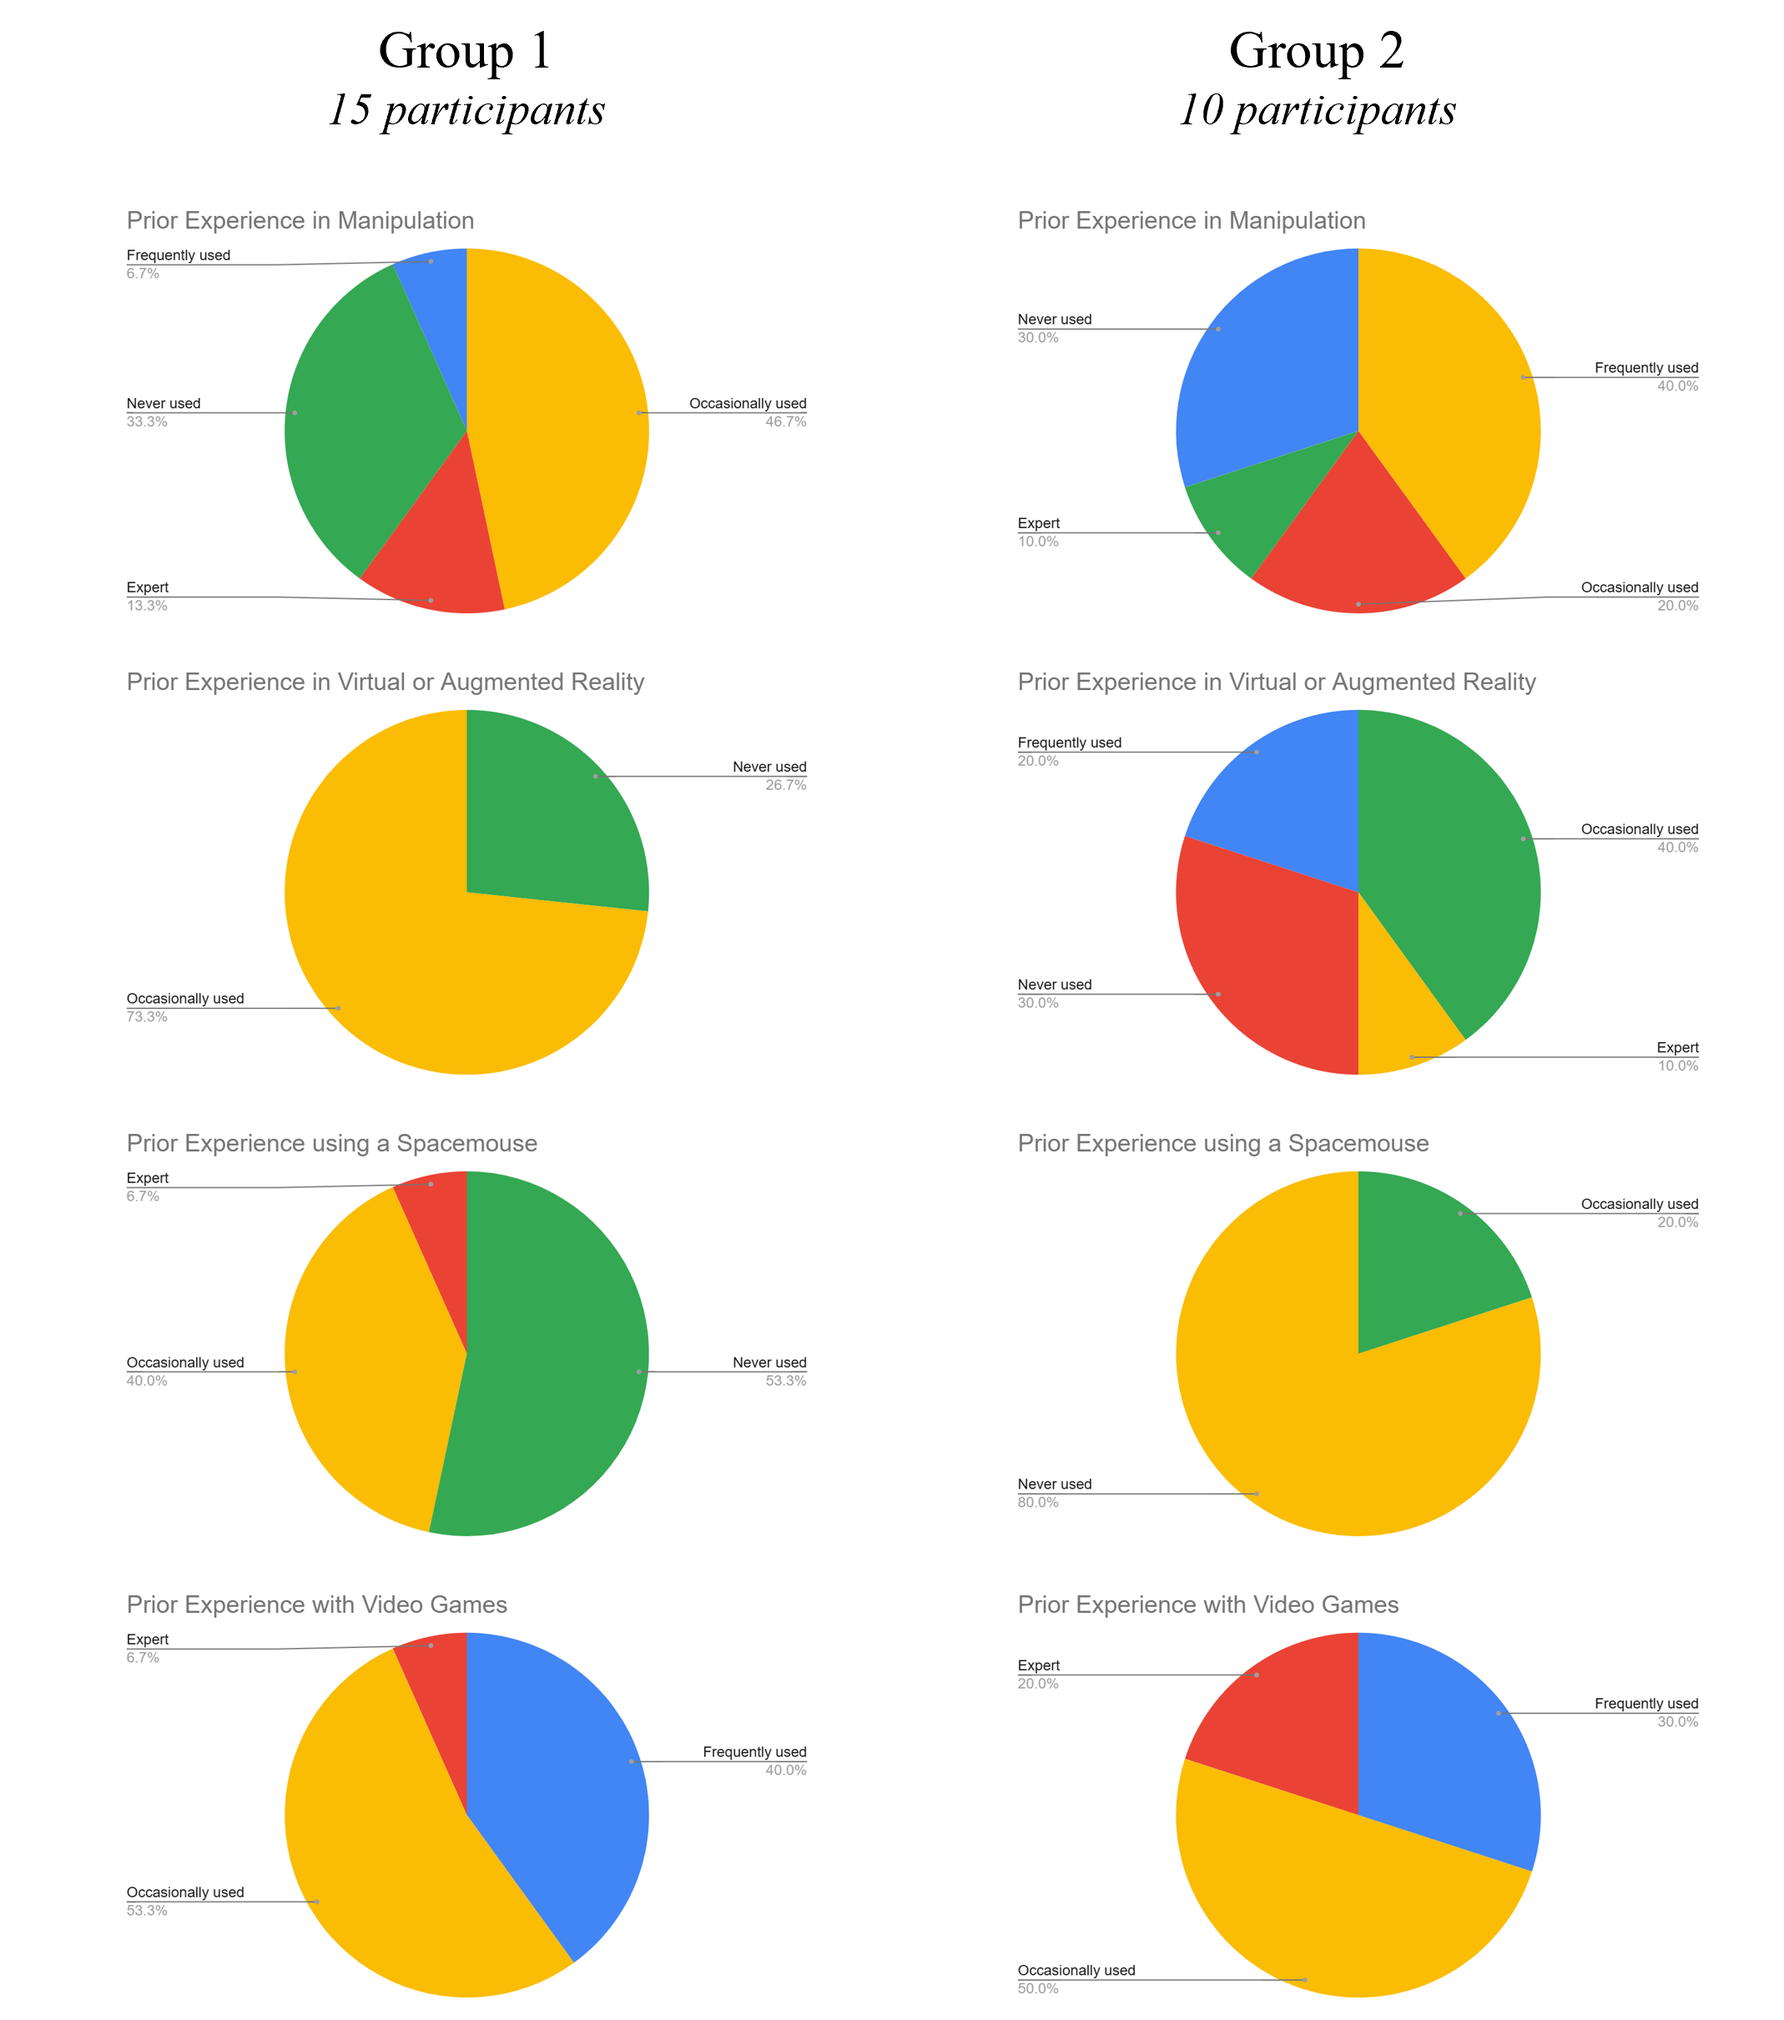
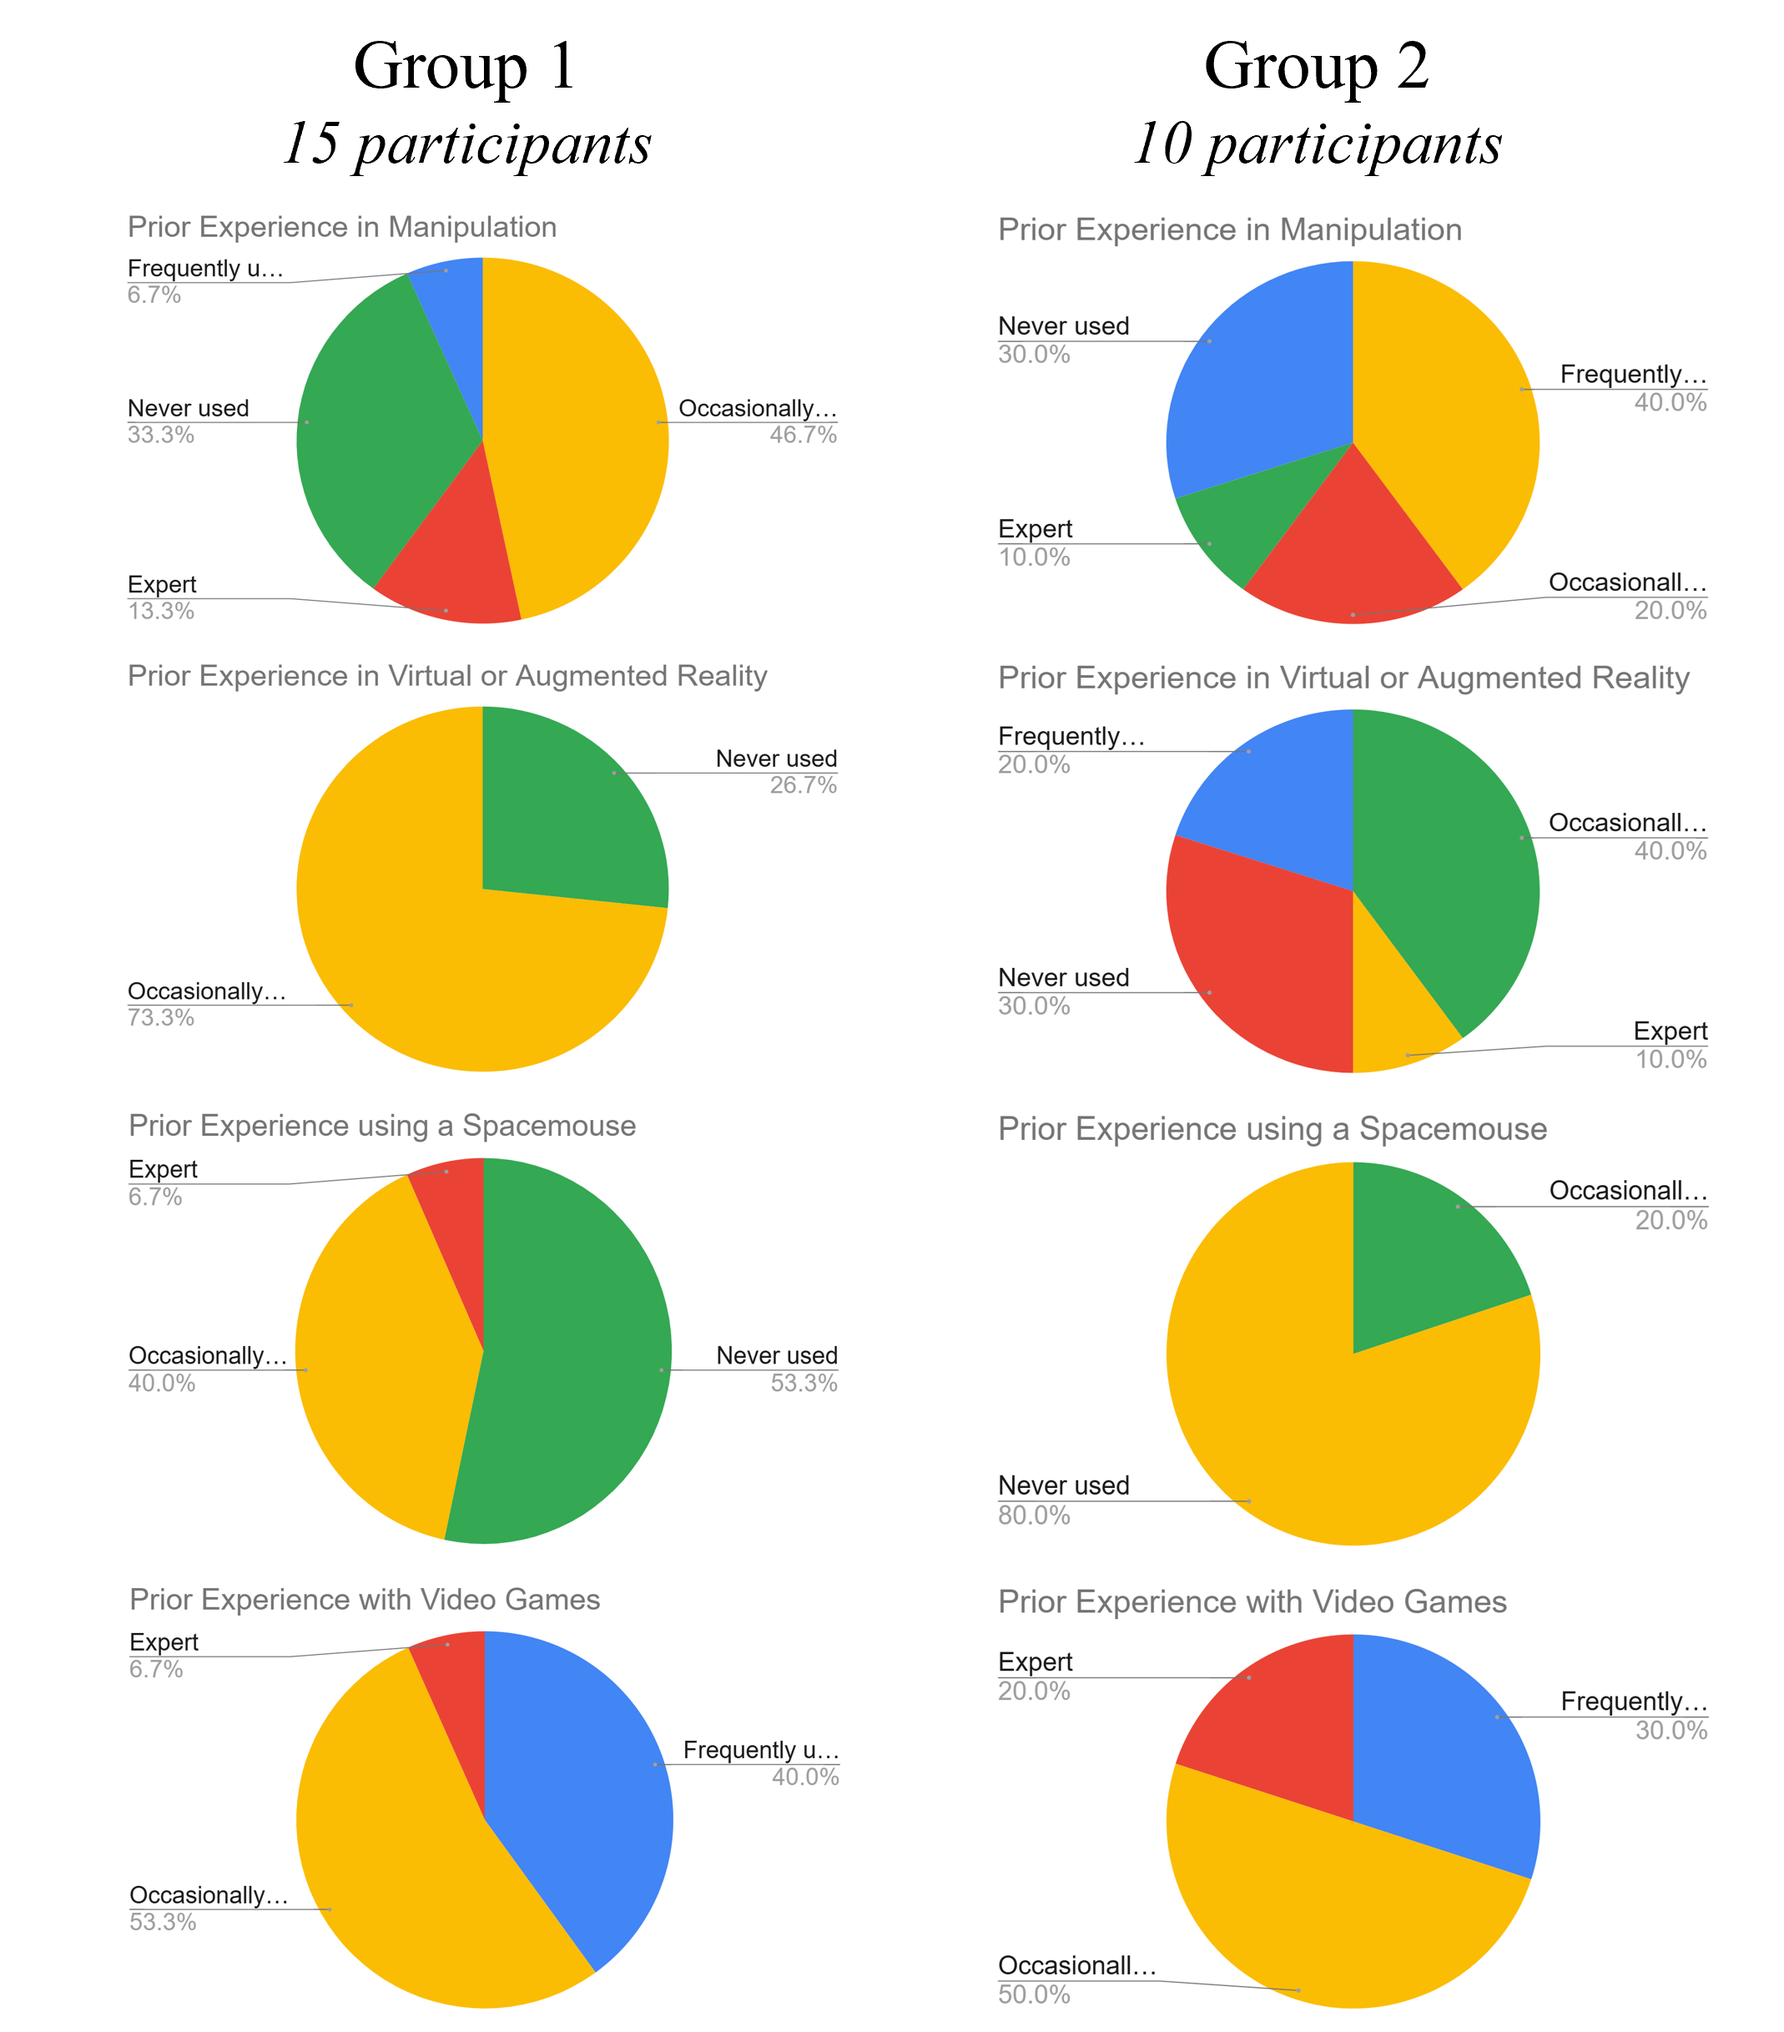
narrative changes

diff --git a/index.html b/index.html
@@ -141,21 +141,25 @@
       <div class="column is-full-width">
         <div class="video-row">
           <video controls autoplay muted loop>
+            <source src="./static/videos/mixedreality_compressed.mp4" type="video/mp4">
+          </video>
+
+          <video controls autoplay muted loop>
             <source src="./static/videos/kinesthetic_compressed.mp4" type="video/mp4">
           </video>
 
           <video controls autoplay muted loop>
             <source src="./static/videos/spacemouse_compressed.mp4" type="video/mp4">
           </video>
-
-          <video controls autoplay muted loop>
-            <source src="./static/videos/mixedreality_compressed.mp4" type="video/mp4">
-          </video>
+          
         </div>
-        <div class ="column has-text-justified">
-          <p class="is-bold">Videos demonstrating the three robot control approaches:
-            Kinesthetic Teaching, SpaceMouse Teleoperation, and a Mixed Reality Teleoperation Interface.  </p>
+        <div class="columns is-centered has-text-centered">
+          <div class ="column has-text-justified">
+            <p class="is-bold">Videos demonstrating the two teleoperation approaches:
+            SpaceMouse Teleoperation and a Mixed Reality Teleoperation Interface, and the non-teleoperation approach: Kinesthetic Teaching.  </p>
+          </div>
         </div>
+        
 </section>
 
 <section class="section">
@@ -166,18 +170,19 @@
         <h2 class="title is-3">Abstract</h2>
         <div class="content has-text-justified">
           <p>
-            Teleoperation interfaces are increasingly important for enabling intuitive and effective human-robot interaction, yet their performance
-            relative to direct manipulation methods remains underexplored. In this study, we compared two teleoperation approaches—SpaceMouse
-            Teleoperation and a Mixed Reality interface—to a widely used non-teleoperation method, Kinesthetic Teaching. All three approaches
-            were evaluated in a comprehensive user study involving two robotic platforms and six complex manipulation tasks. Quantitative
-            results show that Kinesthetic Teaching outperforms both teleoperation methods, yielding faster task completion times and higher
-            success rates for both novice and expert users. The SpaceMouse and MR interfaces performed comparably, with significant differences
-            in task completion observed for only two tasks, and success rates declining as task complexity increased. Qualitative analysis reflected
-            these trends, highlighting differences in Physical Demand and identifying interface attributes that influence users’ ability to perform,
-            learn, and understand. This study quantifies the limitations of current teleoperation methods and incorporates subjective feedback
-            from 25 participants. The results highlight the critical need to design and rigorously evaluate teleoperation systems for non-expert
-            users, particularly in contexts where autonomous robots are deployed in personal or everyday environments, to ensure usability,
-            efficiency, and accessibility.
+            Teleoperation interfaces are essential tools for enabling human control of robotic systems. Although a wide range of interfaces has
+            been developed, a persistent gap remains between the level of performance humans can achieve through these interfaces and the
+            capabilities afforded by direct human-guided robot control. This gap is further exacerbated when users are inexperienced or unfamiliar
+            with the robotic platform or control interface. In this work, we aim to better characterize this performance gap for non-expert users by
+            comparing two teleoperation approaches—SpaceMouse teleoperation and a Mixed Reality (MR) interface—against kinesthetic teaching
+            as a non-teleoperation baseline. All three approaches were evaluated in a comprehensive user study involving two robotic platforms
+            and six complex manipulation tasks. Quantitative results show that the SpaceMouse and MR interfaces performed comparably, with
+            significant differences in task completion observed for only two tasks, and success rates declining as task complexity increased.
+            Qualitative analysis reflected these trends, highlighting differences in Physical Demand and identifying interface attributes that
+            influence users’ ability to perform, learn, and understand. This study quantifies the limitations of current teleoperation methods
+            and incorporates subjective feedback from 25 participants. The results highlight the critical need to design and rigorously evaluate
+            teleoperation systems for non-expert users, particularly in contexts where autonomous robots are deployed in personal or everyday
+            environments, to ensure usability, efficiency, and accessibility.
           </p>
         </div>
       </div>
@@ -206,8 +211,8 @@
         <h3 class="title is-3">Experimental Design</h3>
         <div class="content has-text-justified">
           <p>
-            We conducted a user study to compare three robot control interfaces:
-              Kinesthetic Teaching, SpaceMouse Teleoperation, and a Mixed Reality Teleoperation Interface.
+            We conducted a user study to compare two teleoperation interfaces:
+              SpaceMouse Teleoperation and a Mixed Reality Teleoperation Interface, and the non-teleoperation approach (for broader robot control contextualization): Kinesthetic Teaching.
               Participants were tasked with completing a series of manipulation tasks
               using each interface, and their performance, workload, and preferences were evaluated.
               We recorded task completion times, success rates, and subjective feedback through questionnaires.
@@ -217,16 +222,19 @@
         <h3 class="title is-4">Hypotheses</h3>
         <div class="content has-text-justified">
           <p>
-            <strong>H1:</strong> Kinesthetic Teaching will result in lower task completion times
-            and lower perceived workload compared to SpaceMouse Teleoperation and Mixed Reality Teleoperation.
+            <strong> Hypothesis 1 – Helping Users Do (SpaceMouse):</strong> The SpaceMouse’s minimal and intuitive design will allow users to control the robot’s end-effector seamlessly,
+             enabling them to execute both large and precise movements with minimal effort. 
+             However, unintuitive input-to-motion mappings may reduce effectiveness in matching user commands to robot movements..
           </p>
           <p>
-            <strong>H2:</strong> Spacemouse Teleoperation will result in the lowest physical workload but comparable task completion times
-            and perceived workload to Mixed Reality Teleoperation.
+            <strong>Hypothesis 2 – Helping Users Understand (Mixed Reality):</strong> Visualizing the end-effector via a mixed reality digital twin will improve users’ ability to anticipate robot movements in response to their inputs, 
+            clarifying the relationship between control actions and robot motion and potentially enhancing task performance. 
+            However, prior experience with AR/VR/MR may influence usability and limit effectiveness.
           </p>
           <p>
-            <strong>H3:</strong> Mixed Reality Teleoperation will be preferred by participants
-            for its intuitive interface and immersive experience.
+            <strong>Hypothesis 3 – Helping Users Learn (Kinesthetic Teaching):</strong> We hypothesize that kinesthetic teaching enables users to implicitly learn the robot’s kinematics—including joint motions, workspace limits, 
+            and potential self-collisions—without explicit instruction, supporting efficient task performance. 
+            However, achieving this performance may require substantial physical effort, potentially limiting comfort and ease of execution.
           </p>
         </div>
       </div>
@@ -239,7 +247,7 @@
     <div class="columns is-centered">
       <!-- Participants -->
       <div class="column">
-        <h2 class="title is-3">Participants</h2>
+        <h2 class="title is-4">Participants</h2>
         <div class="columns is-centered">
           <div class="column content">
             <p>
@@ -281,7 +289,7 @@
     <div class="columns is-centered">
       <!-- Tasks -->
       <div class="column">
-        <h2 class="title is-3">Tasks</h2>
+        <h2 class="title is-4">Tasks</h2>
         <div class="columns is-centered">
           <div class="column content">
             <p>
@@ -378,10 +386,10 @@
         <h3 class="title is-4">Time and Success</h3>
         <div class="content has-text-justified">
           <p>
-            Participants completed tasks faster and more successfully using Kinesthetic Teaching
-            compared to SpaceMouse and Mixed Reality Teleoperation. Although overall trends indicate that
+            Although overall trends indicate that
             participants generally completed tasks more quickly using the SpaceMouse compared to the Mixed Reality Interface,
-            statistically significant differences were observed only for the PEG-in-HOLE and RING-on-PEG tasks.
+            statistically significant differences were observed only for the PEG-in-HOLE and RING-on-PEG tasks. Participants completed tasks faster and more successfully using Kinesthetic Teaching
+            compared to SpaceMouse and Mixed Reality Teleoperation.
           </p>
           <p>
             Participants using the SpaceMouse experienced substantial difficulty in tasks
